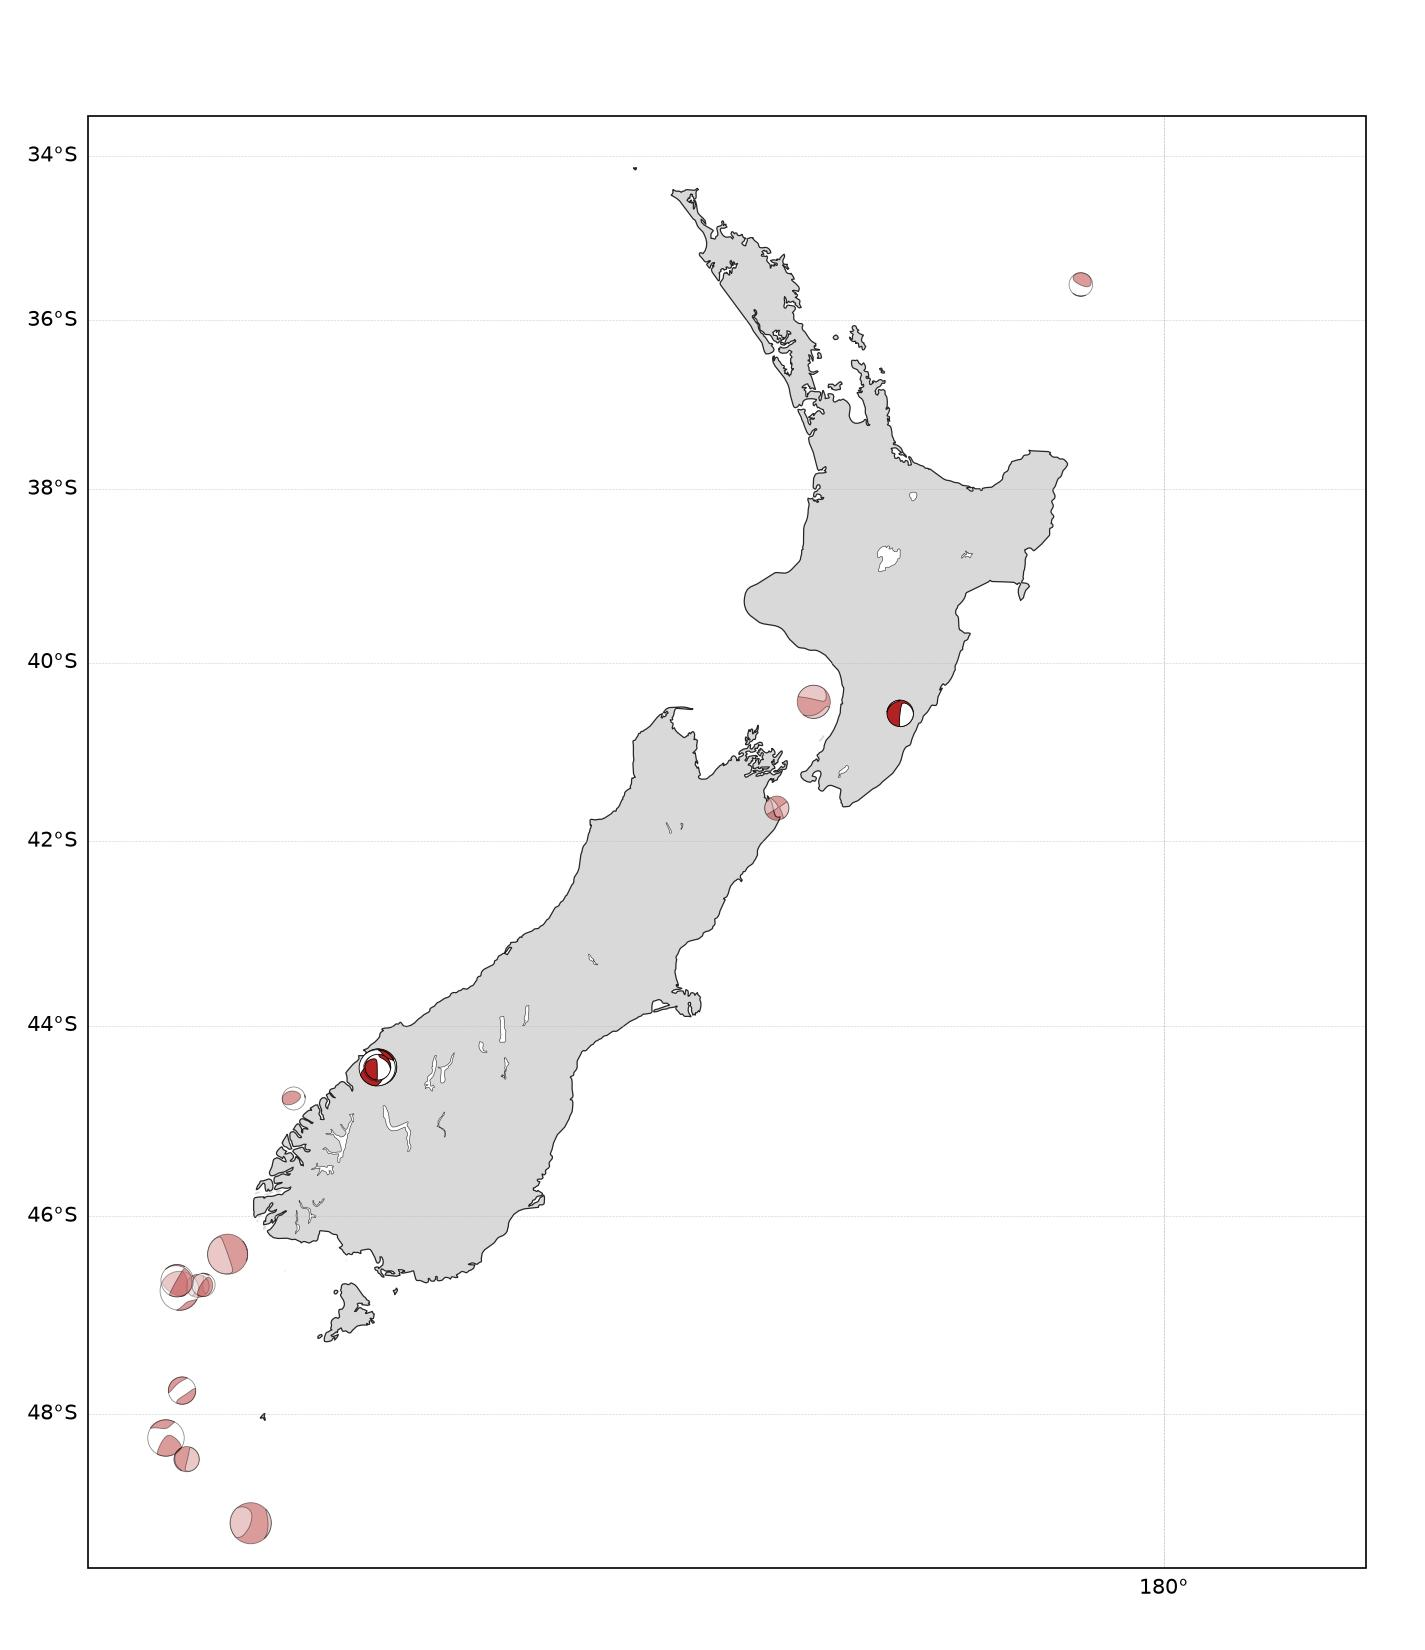
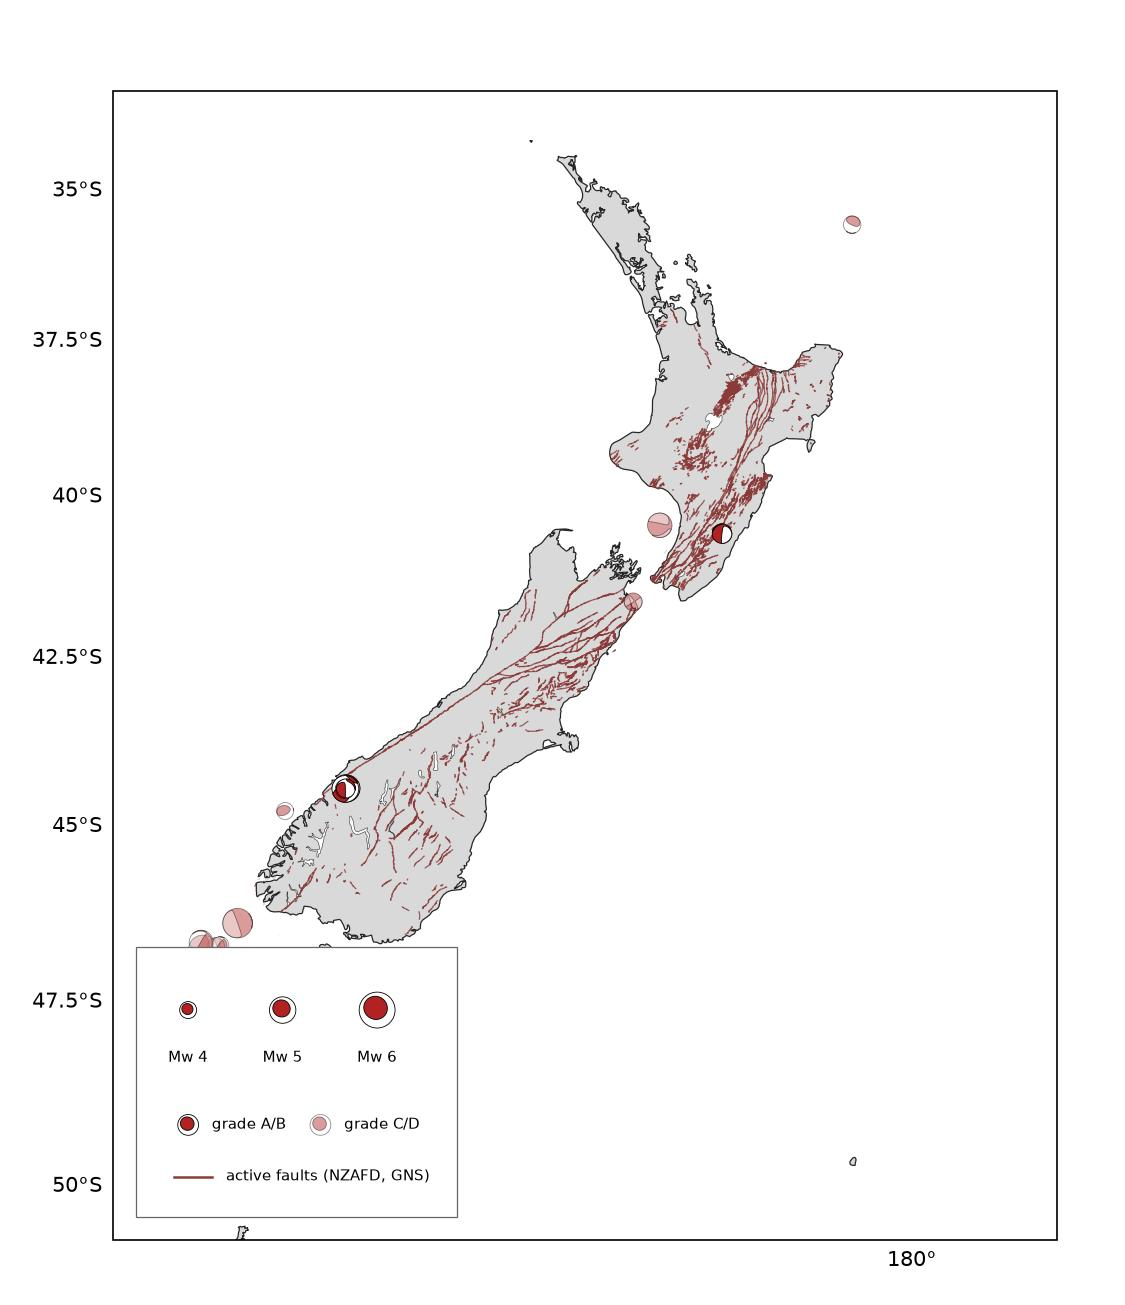
README overview map: standalone with legend (Mw sizes, grade shading, NZAFD faults), no gridlines, smaller embed

diff --git a/figure.py b/figure.py
@@ -278,21 +278,25 @@ def make_share_figure(
 
 
 def make_overview_map(events_dir: Path, out_path: Path) -> Path:
-    """NZ map of every archived solution as its full-MT beachball —
-    the front-page view of the catalogue. A/B grades solid, C/D washed."""
+    """Standalone NZ map of every archived solution: full-MT beachballs
+    (size = Mw, solid = grade A/B, washed = C/D) over the NZ Active Faults
+    Database, with an in-figure legend. No lat/lon grid clutter."""
     import json
 
     import cartopy.crs as ccrs
+    from obspy.imaging.beachball import beach
 
     sols = []
     for p in sorted(events_dir.glob("*/solution.json")):
         try:
             sols.append(json.loads(p.read_text()))
-        except Exception:  # noqa: BLE001 - one bad archive must not kill the map
+        except Exception:  # noqa: BLE001
             continue
-    region = [164.0, 183.0, -49.5, -33.5]
-    fig = plt.figure(figsize=(9.5, 11))
-    ax = map_style.geo_axes(fig, [0.06, 0.05, 0.9, 0.88], region)
+    region = [163.5, 183.0, -50.7, -33.3]
+    fig = plt.figure(figsize=(7.5, 8.7))
+    ax = map_style.geo_axes(fig, [0.07, 0.05, 0.9, 0.88], region,
+                            grid=False)
+    map_style.draw_context(ax, region, ccrs, gnss=False)
     dates = []
     for sol in sols:
         ev = sol["event"]
@@ -301,16 +305,12 @@ def make_overview_map(events_dir: Path, out_path: Path) -> Path:
         grade = sol["quality"].get("grade", "?")
         width = 0.018 + 0.010 * max(0.0, pref["mw"] - 4.0)
         try:
-            ball_args = (ax, lon, ev["latitude"],
-                         pref["tensor_rtp_dyne_cm"])
+            rtp = pref["tensor_rtp_dyne_cm"]
         except KeyError:
             continue
-        from obspy.imaging.beachball import beach
-
         x, y = ax.projection.transform_point(lon, ev["latitude"],
                                              ccrs.PlateCarree())
         xe0, xe1, _, _ = ax.get_extent(crs=ax.projection)
-        rtp = pref["tensor_rtp_dyne_cm"]
         fm = [rtp["MRR"], rtp["MTT"], rtp["MPP"],
               rtp["MRT"], rtp["MRP"], rtp["MTP"]]
         ball = beach(fm, xy=(x, y), width=width * (xe1 - xe0),
@@ -320,11 +320,50 @@ def make_overview_map(events_dir: Path, out_path: Path) -> Path:
         ax.add_collection(ball)
         dates.append(ev["origin_time"][:10])
     ax.set_title(
-        f"auto_tdmt_NZ: {len(sols)} automated moment tensor solutions "
-        f"({min(dates)} to {max(dates)})\n"
-        f"solid = grade A/B, washed = C/D; size scales with Mw",
+        f"Automated NZ moment tensor solutions (auto_tdmt_NZ)\n"
+        f"{len(sols)} events, {min(dates)} to {max(dates)}",
         fontsize=10,
     )
+
+    # in-figure legend (bottom-left): sample balls + fault line
+    xe0, xe1, ye0, ye1 = ax.get_extent(crs=ax.projection)
+    w_ax = xe1 - xe0
+    lx, ly = xe0 + 0.045 * w_ax, ye0 + 0.055 * (ye1 - ye0)
+    import matplotlib.patches as mpatches
+    ax.add_patch(mpatches.Rectangle(
+        (lx - 0.02 * w_ax, ly - 0.035 * (ye1 - ye0)), 0.34 * w_ax,
+        0.235 * (ye1 - ye0), facecolor="white", edgecolor="0.4",
+        linewidth=0.6, zorder=200))
+    demo = [(4.0, "Mw 4"), (5.0, "Mw 5"), (6.0, "Mw 6")]
+    fm_demo = [1.0, -0.5, -0.5, 0.3, 0.2, 0.1]
+    for i, (mw, lab) in enumerate(demo):
+        bx = lx + (0.035 + 0.10 * i) * w_ax
+        by = ly + 0.145 * (ye1 - ye0)
+        bw = (0.018 + 0.010 * (mw - 4.0)) * w_ax
+        ax.add_collection(beach(fm_demo, xy=(bx, by), width=bw,
+                                linewidth=0.4, facecolor="firebrick",
+                                zorder=210))
+        ax.text(bx, by - 0.045 * (ye1 - ye0), lab, ha="center",
+                fontsize=7, zorder=220)
+    b1 = beach(fm_demo, xy=(lx + 0.035 * w_ax, ly + 0.045 * (ye1 - ye0)),
+               width=0.022 * w_ax, linewidth=0.4, facecolor="firebrick",
+               zorder=210)
+    ax.add_collection(b1)
+    ax.text(lx + 0.06 * w_ax, ly + 0.045 * (ye1 - ye0), "grade A/B",
+            fontsize=7, va="center", zorder=220)
+    b2 = beach(fm_demo, xy=(lx + 0.175 * w_ax, ly + 0.045 * (ye1 - ye0)),
+               width=0.022 * w_ax, linewidth=0.4, facecolor="firebrick",
+               zorder=210)
+    b2.set_alpha(0.45)
+    ax.add_collection(b2)
+    ax.text(lx + 0.20 * w_ax, ly + 0.045 * (ye1 - ye0), "grade C/D",
+            fontsize=7, va="center", zorder=220)
+    ax.plot([lx + 0.02 * w_ax, lx + 0.06 * w_ax],
+            [ly + 0.0, ly + 0.0], "-", color="#8B3A3A", linewidth=1.2,
+            zorder=210)
+    ax.text(lx + 0.075 * w_ax, ly, "active faults (NZAFD, GNS)",
+            fontsize=7, va="center", zorder=220)
+
     out_path.parent.mkdir(parents=True, exist_ok=True)
     fig.savefig(out_path, dpi=150)
     plt.close(fig)

diff --git a/map_style.py b/map_style.py
@@ -54,7 +54,7 @@ def square_region(region: list) -> list:
     return [lon0, lon1, lat0, lat1]
 
 
-def geo_axes(fig, rect, region, labels=True):
+def geo_axes(fig, rect, region, labels=True, grid=True):
     """Cartopy Mercator axes at an explicit figure rect [x, y, w, h]
     (manual placement: cartopy's fixed aspect fights layout engines)."""
     import cartopy.crs as ccrs
@@ -71,8 +71,9 @@ def geo_axes(fig, rect, region, labels=True):
                    edgecolor="0.25", linewidth=0.3, zorder=1)
     ax.add_feature(cfeature.COASTLINE.with_scale("10m"), linewidth=0.6,
                    edgecolor="0.15", zorder=2)
-    gl = ax.gridlines(draw_labels=labels, linewidth=0.3, color="0.7",
-                      alpha=0.6, linestyle="--")
+    gl = ax.gridlines(draw_labels=labels, linewidth=0.3 if grid else 0.0,
+                      color="0.7", alpha=0.6 if grid else 0.0,
+                      linestyle="--")
     if labels:
         gl.top_labels = False
         gl.right_labels = False

diff --git a/README.md b/README.md
@@ -27,7 +27,7 @@ any organisation's internal systems.
 human review** — do not interpret mechanisms in volcanic/geothermal
 settings from these solutions.
 
-![All automated solutions to date](events/solutions_map.jpg)
+<img src="events/solutions_map.jpg" width="430" alt="All automated moment tensor solutions to date: beachballs sized by Mw (solid = grade A/B, washed = C/D) over the NZ Active Faults Database">
 
 ## How it works
 
